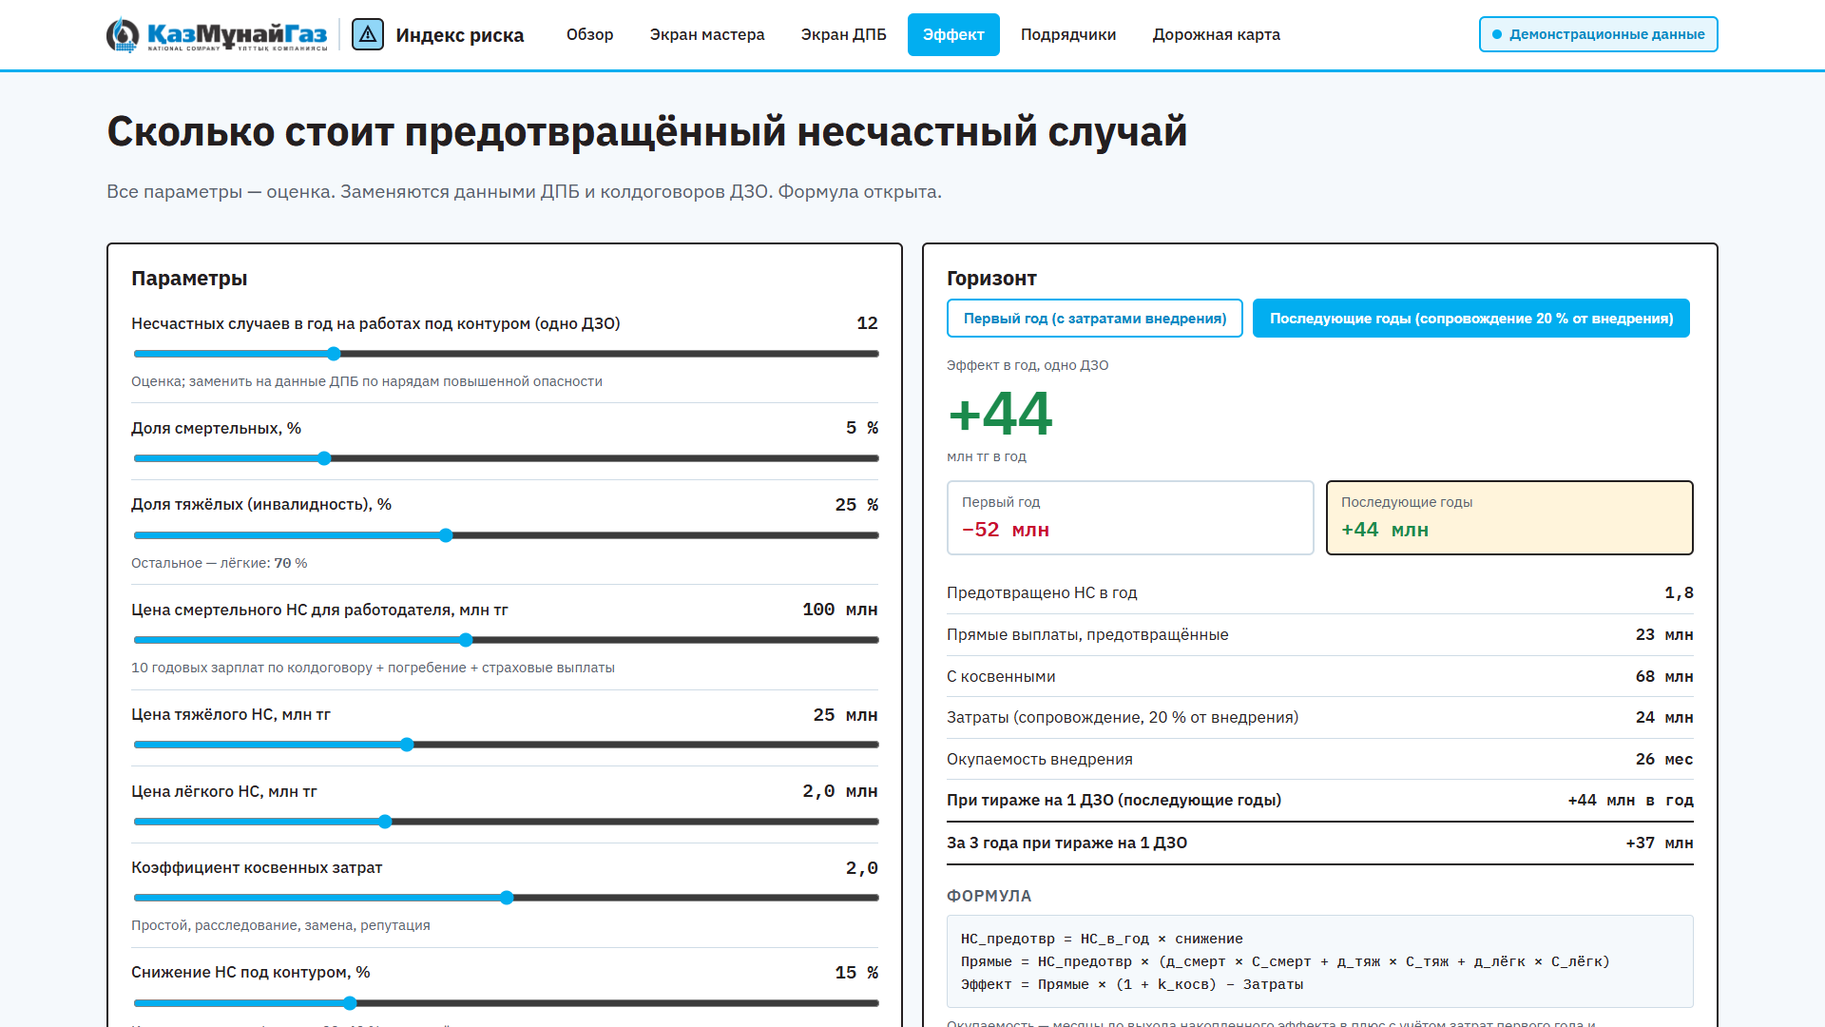
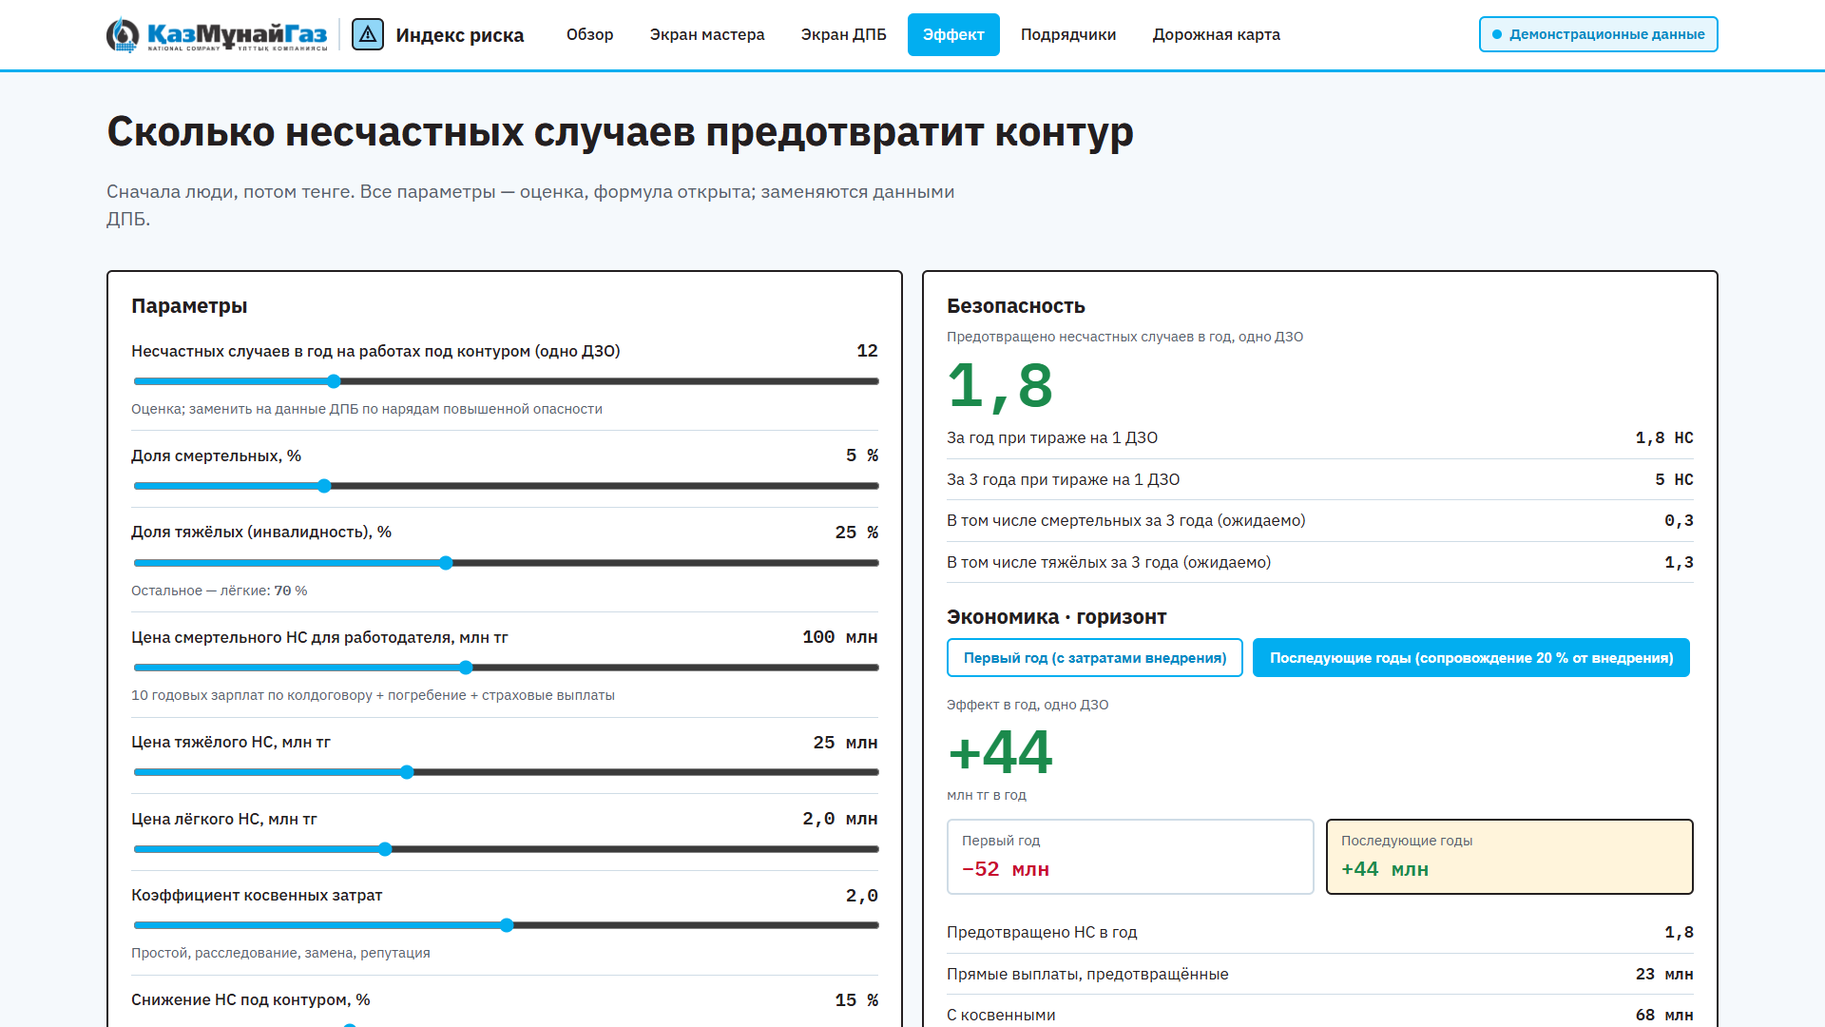
Упор на снижение НС: блок «Безопасность» первым в калькуляторе, пилот D — ОМГ и ОТК

Changed region(s): [[0.0625, 0.1833, 0.9375, 1.0], [0.1562, 0.0917, 0.6562, 0.1528]]

diff --git a/эффект.html b/эффект.html
@@ -43,8 +43,8 @@
 
 <main class="страница">
   <div class="заголовок">
-    <h1>Сколько стоит предотвращённый несчастный случай</h1>
-    <p class="лид">Все параметры — оценка. Заменяются данными ДПБ и колдоговоров ДЗО. Формула открыта.</p>
+    <h1>Сколько несчастных случаев предотвратит контур</h1>
+    <p class="лид">Сначала люди, потом тенге. Все параметры — оценка, формула открыта; заменяются данными ДПБ.</p>
   </div>
 
   <div class="разворот">
@@ -109,7 +109,16 @@
     </div>
 
     <div class="карточка результат">
-      <h3>Горизонт</h3>
+      <h3>Безопасность</h3>
+      <div class="подпись">Предотвращено несчастных случаев в год, одно ДЗО</div>
+      <div class="число зелёное" id="нс_год">0</div>
+      <ul class="строки" id="строки_безопасности">
+        <li><span id="нс_тираж_подпись">За год при тираже</span><span class="моно" id="нс_тираж"></span></li>
+        <li><span id="нс3_подпись">За 3 года при тираже</span><span class="моно" id="нс3"></span></li>
+        <li><span>В том числе смертельных за 3 года (ожидаемо)</span><span class="моно" id="нс_смерт3"></span></li>
+        <li><span>В том числе тяжёлых за 3 года (ожидаемо)</span><span class="моно" id="нс_тяж3"></span></li>
+      </ul>
+      <h3 style="margin-top:22px">Экономика · горизонт</h3>
       <div class="горизонт" id="горизонт">
         <button class="кнопка вторая" data-горизонт="год1">Первый год (с затратами внедрения)</button>
         <button class="кнопка" data-горизонт="послед">Последующие годы (сопровождение 20 % от внедрения)</button>
@@ -152,7 +161,7 @@
       <li>УК РК ст. 156 ч. 3: до 5 лет лишения свободы для ответственного за ОТ при смерти работника</li>
       <li>Отраслевые референсы: предиктивные оповещения по критическим задачам снижают серьёзные травмы и смерти на 20–40 %</li>
     </ul>
-    <p class="вывод">Один предотвращённый смертельный случай подрядчика — это 100+ млн тг прямых выплат и уголовное дело, которого не будет.</p>
+    <p class="вывод">Главный результат — люди, которые вернулись со смены. Деньги считаем, потому что форма конкурса просит ценность в тенге, и потому что один предотвращённый смертельный случай — это ещё и 100+ млн тг выплат и уголовное дело, которого не будет.</p>
   </section>
 
   <footer class="подвал"><span>Заявка на конкурс Председателя Правления КМГ по ПБ, ОТ и ОС · 2026</span><span>Прототип, данные синтетические · ТОО «KMG Digital»</span></footer>
@@ -236,6 +245,15 @@
     document.getElementById('блок_послед').classList.toggle('текущий', горизонт==='послед');
 
     document.getElementById('нс_предотвр').textContent = число(р.нс_пр, 1);
+    // Блок безопасности: предотвращённые НС по тиражу и ожидаемые смертельные/тяжёлые (доли из ползунков)
+    const дс = знач('д_смерт')/100, дт = знач('д_тяж')/100;
+    document.getElementById('нс_год').textContent = число(р.нс_пр, 1);
+    document.getElementById('нс_тираж_подпись').textContent = 'За год при тираже на ' + р.N + ' ДЗО';
+    document.getElementById('нс_тираж').textContent = число(р.нс_пр * р.N, 1) + ' НС';
+    document.getElementById('нс3_подпись').textContent = 'За 3 года при тираже на ' + р.N + ' ДЗО';
+    document.getElementById('нс3').textContent = число(р.нс_пр * р.N * 3, 0) + ' НС';
+    document.getElementById('нс_смерт3').textContent = число(р.нс_пр * р.N * 3 * дс, 1);
+    document.getElementById('нс_тяж3').textContent = число(р.нс_пр * р.N * 3 * дт, 1);
     document.getElementById('прямые').textContent = число(р.прямые) + ' млн';
     document.getElementById('с_косв').textContent = число(р.с_косв) + ' млн';
     document.getElementById('затраты_подпись').textContent = горизонт==='год1' ? 'Затраты (внедрение, первый год)' : 'Затраты (сопровождение, 20 % от внедрения)';

diff --git a/дорожная_карта.html b/дорожная_карта.html
@@ -109,7 +109,7 @@
     ['Извлечённые уроки из актов', 'птттттт'.slice(0,6), 'разбор актов расследования, рассылка на похожие объекты'],
   ];
   const ЛЕНТА2 = [
-    ['ОСК и ОТК', 'пптттт', 'пилот: сервисные ДЗО, наибольшая доля подрядных бригад'],
+    ['ОМГ и ОТК', 'пптттт', 'пилот: подрядные работы ПРС/КРС под ЭНД и транспортные подрядчики'],
     ['ОКК и ОМГ', '  тттт', ''],
     ['Все добывающие ДЗО', '    тт', 'ММГ, КБМ, ЭМГ, КТМ и др.'],
     ['Гейт в KMG AISAP', ' поооо', 'с Q3 2027 обязателен для работ повышенной опасности'],

diff --git a/сборка_презентаций.py b/сборка_презентаций.py
@@ -158,7 +158,7 @@ def два_кадра(prs, n, title, left, right, caption):
 
 
 def эффект(prs, n, items, head):
-    s = новый(prs, n, "Эффект")
+    s = новый(prs, n, "Эффект: меньше несчастных случаев")
     кадр(s, ["04_эффект.png"], 0.55, 1.15, 7.6, 5.5)
     x, w = 8.45, 4.4
     текст(s, x, 1.15, w, 0.5, head, 18, ЧЕРНИЛА, bold=True)
@@ -224,21 +224,20 @@ def новая():
 # ---------- A ----------
 A = новая()
 титул(A, "Индекс риска работ повышенной опасности",
-      "ИИ-оценка наряда-допуска и бригады до начала работ на опережающих индикаторах · для собственных и подрядных бригад",
+      "Светофор наряда-допуска до начала работ: меньше несчастных случаев на работах повышенной опасности · для своих и подрядных бригад",
       [("10,38", КРАСН, "FAR подрядных организаций, 2025 (IOGP 0,84)"),
        ("1 из 3", ЯНТ, "несчастных случаев — на работах повышенной опасности"),
        ("3", КРАСН, "смертельных случая в ДЗО за 1 полугодие 2026")], ИСТОЧНИК_A)
 со_кадром(A, 2, "Как работает контур", ["схема_A.png", "01_обзор.png"],
           "Четыре системы фиксируют нарушение по факту. Индекс отвечает заранее: какая работа и какая бригада сегодня в зоне риска. Решение принимает человек")
 со_кадром(A, 3, "Экран мастера", ["02_смена.png"],
-          "Светофор наряда: зелёный — обычный допуск, жёлтый — целевой инструктаж и ИИ-мероприятия, красный — эскалация в службу ПБ. Индекс не входит в KPI премирования")
-эффект(A, 4, ["Снижение НС под контуром — 15 % (референсы 20–40 %)",
-              "Смертельный НС: ~100 млн тг прямых выплат (10 годовых зарплат по колдоговору) + страховые, расследование, простой",
-              "Одно ДЗО: ~68 млн тг в год предотвращённых потерь",
-              "Четыре добывающих ДЗО: ~180 млн тг в год, ~360 млн тг за 3 года",
-              "Затраты: ~120 млн тг в первый год, без капвложений",
-              "Каждый предотвращённый смертельный случай — ещё 100+ млн тг"],
-       "Оценка, параметры открыты")
+          "Светофор наряда: зелёный — обычный допуск, жёлтый — целевой инструктаж и ИИ-мероприятия, красный — согласование со службой ПБ своего ДЗО. Индекс не входит в KPI премирования")
+эффект(A, 4, ["Снижение НС на работах под контуром — 15 % за первый полный год (референсы 20–40 %)",
+              "Одно ДЗО: 1,8 предотвращённых НС в год; четыре ДЗО — около 7 в год, более 20 за три года, в том числе ожидаемо один смертельный",
+              "Опережающие показатели вместо учёта по факту: доля жёлтых и красных нарядов и их закрытие, нарушения TUMAR на бригаду до и после",
+              "Экономика (оценка): 23 млн тг прямых и ~68 млн тг с косвенными потерями в год на ДЗО; чистый эффект со второго года +44 млн тг, четыре ДЗО ~+220 млн тг в год",
+              "Затраты: 120 млн тг в первый год, далее 24 млн тг в год, без капвложений"],
+       "Сначала люди, потом тенге")
 со_кадром(A, 5, "Дорожная карта тиража", ["06_дорожная_карта.png"],
           "Пилот ОМГ (ЭНД + TUMAR + «Управление поездками» уже работают) → ММГ, КБМ → ЭМГ, ОСК → НПЗ. От ДЗО нужен только доступ к событиям систем")
 роли(A, 6, [
@@ -264,15 +263,14 @@ D = новая()
           "Пять компонентов: НС за 24 мес, предписания проверок ПБ, ЭНД по подрядным бригадам, обучение, TUMAR и «Поездки» там, где подрядчик работает под ними. Веса и пороги — ДПБ")
 два_кадра(D, 3, "Паспорт и гейт в AISAP", ["05_подрядчик.png"], ["05б_паспорт.png", "05_подрядчик.png"],
           "A и B — допуск; C — допуск с планом улучшений и оценкой через 6 месяцев; D — без новых лотов на работы повышенной опасности до повторной оценки, договоры не прерываются. Первый год — переходный, арбитр — ДПБ")
-эффект(D, 4, ["Прямое давление на FAR 10,38: подрядчики класса D не попадают на работы повышенной опасности",
-              "Дорожная карта ДПБ по подрядчикам 2025–2027 требует измеримых KPI — паспорт их даёт",
-              "Одно ДЗО: ~70 млн тг в год при снижении НС подрядчиков на 15 %",
-              "Тираж на сервисные и добывающие ДЗО: 200+ млн тг в год",
-              "Затраты: ~80 млн тг в первый год, без оборудования",
-              "Предотвращение ответственности заказчика за последствия"],
-       "Оценка, параметры открыты")
+эффект(D, 4, ["Подрядчики класса D не получают новых работ повышенной опасности, класс C — план улучшений с контрольным сроком",
+              "Адресно по бурению, ремонту скважин и транспорту — 61 % происшествий подрядчиков; цель — FAR подрядчиков от 10,38 к отраслевому ориентиру 0,84",
+              "Одно ДЗО: 1,8 предотвращённых НС подрядчиков в год; шесть ДЗО — около 11 в год, более 30 за три года",
+              "Экономика (оценка): ~68 млн тг предотвращённых потерь в год на ДЗО; чистый эффект со второго года ~+50 млн тг, шесть ДЗО — более 300 млн тг в год",
+              "Затраты: 80 млн тг в первый год, далее 16 млн тг в год, без оборудования"],
+       "Сначала люди, потом тенге")
 со_кадром(D, 5, "Дорожная карта", ["06_дорожная_карта.png"],
-          "Пилот ОСК и ОТК (TUMAR и «Управление поездками» уже работают) → ОКК, ОМГ → все добывающие ДЗО. Гейт в AISAP обязателен для работ повышенной опасности с Q3 2027")
+          "Пилот ОМГ и ОТК → ОКК → все добывающие ДЗО и НПЗ. Требуемый класс — в квалификационных требованиях и договоре; первый год переходный")
 роли(D, 6, [
     ("Функциональный заказчик", "ДПБ КМГ совместно с Департаментом закупок: показатели, веса, пороги классов, порядок оспаривания"),
     ("Площадки пилота", "ОМГ (подрядные работы ПРС/КРС, ЭНД выдаётся подрядным бригадам) и ОТК (транспортные подрядчики)"),
